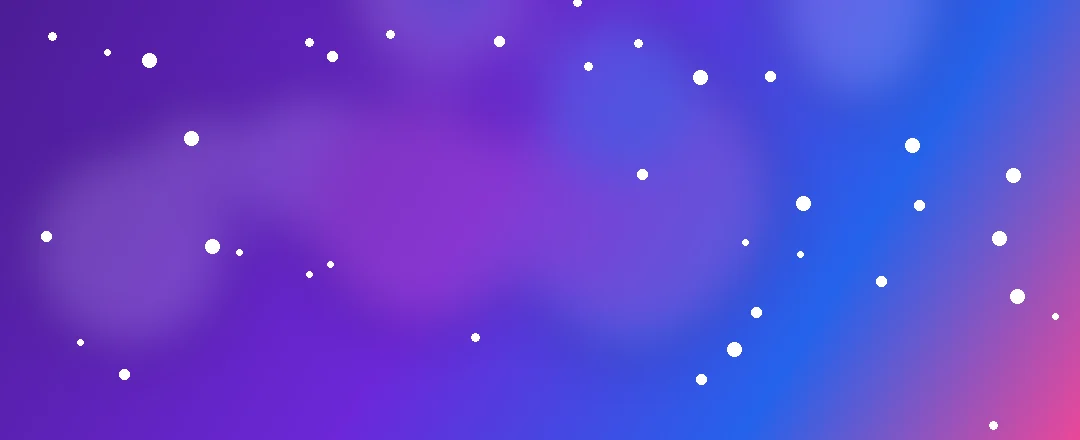
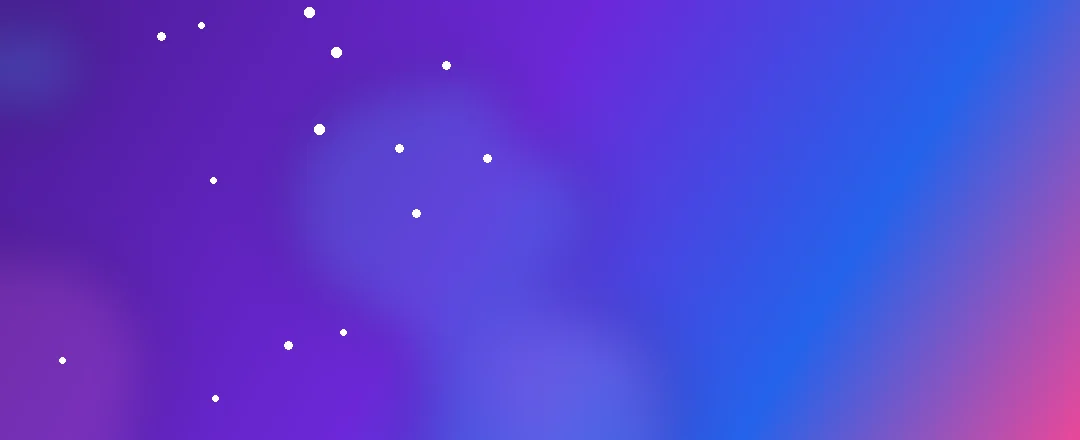
תיקון גובה כותרת, חיתוך נקי של תמונת ה-Hero וענף צילומים נקי
Claude-Session: https://claude.ai/code/session_01AVN7wHrUVQA6Z3KaEeFURE

diff --git a/src/ui.js b/src/ui.js
@@ -227,7 +227,7 @@ export const s = StyleSheet.create({
   input: { backgroundColor: '#fff', borderWidth: 2, borderColor: C.border, borderRadius: 14, paddingHorizontal: 14, paddingVertical: 12, fontSize: 16, textAlign: 'right', writingDirection: 'rtl', color: C.ink, marginBottom: 10 },
   card: { backgroundColor: C.card, borderRadius: 22, padding: 14, marginBottom: 12, borderWidth: 1, borderColor: C.border, shadowColor: '#4C1D95', shadowOpacity: 0.1, shadowRadius: 10, shadowOffset: { width: 0, height: 4 }, elevation: 3 },
   chip: { paddingHorizontal: 15, paddingVertical: 8, borderRadius: 22, borderWidth: 2, borderColor: C.border, backgroundColor: '#fff' },
-  header: { paddingTop: TOP + 10, paddingBottom: 18, paddingHorizontal: 18, marginBottom: 4 },
+  header: { height: TOP + 98, paddingTop: TOP + 10, paddingHorizontal: 18, marginBottom: 4, justifyContent: 'center' },
   overlay: { flex: 1, backgroundColor: 'rgba(30,10,70,0.5)', justifyContent: 'flex-end' },
   sheet: { backgroundColor: C.bg, borderTopLeftRadius: 28, borderTopRightRadius: 28, padding: 18, maxHeight: '90%' },
   sheetTitle: { fontSize: 21, fontWeight: '900', color: C.deep, flex: 1 },

diff --git a/src/sprites.js b/src/sprites.js
@@ -35,7 +35,7 @@ export const SPRITES = {
 export const RATIO = {
   think_who: 0.926,
   think_howmuch: 0.932,
-  hero: 0.906,
+  hero: 0.827,
   paid_cash: 1.056,
   closed: 1.112,
   sleeping: 1.109,
